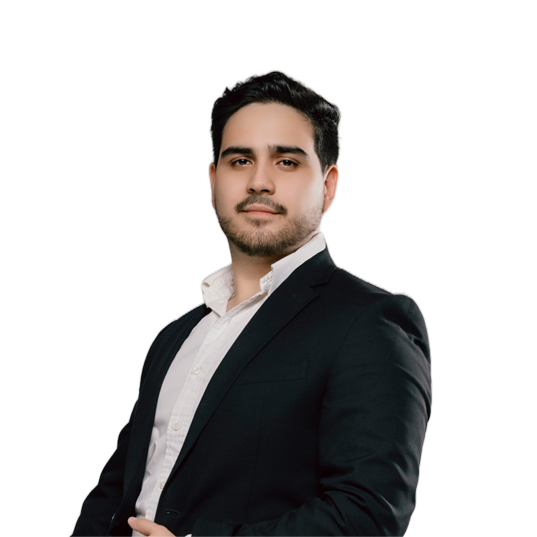
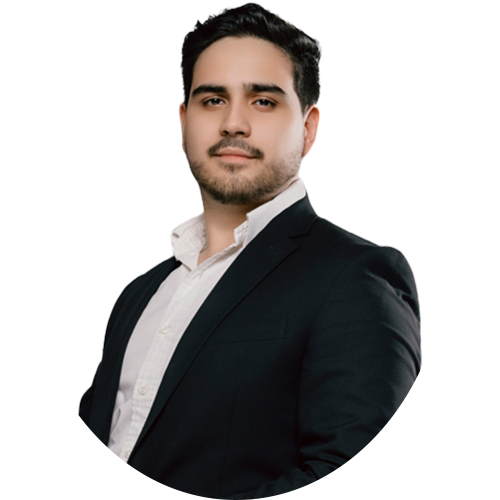
[Page] Finished developing the HomePage and added another package, changed the photo

Changed region(s): [[0.12, 0.0, 0.87, 1.0]]

diff --git a/ted-portfolio/components/Photo.jsx b/ted-portfolio/components/Photo.jsx
@@ -1,9 +1,64 @@
-import React from 'react'
+"use client";
+
+import { motion } from "framer-motion";
+import Image from "next/image";
 
 const Photo = () => {
-  return (
-    <div>Photo</div>
-  )
+  return <div className="w-full h-full relative">
+    <motion.div
+    initial={{opacity: 0}}
+    animate={{
+        opacity: 1,
+        transition: {delay: 2, duration: 0.4, ease: 'easeIn' },
+        }}
+    >
+        {/* image */}
+        <motion.div
+        initial={{ opacity: 0 }}
+        animate= {{
+            opacity: 1,
+            transition: { delay: 2.4, duration: 0.4, ease: 'easeInOut' },
+            }}
+        className="w-[298px] h-[298px] xl:w-[498px] xl:h-[498px] mix-blend-lighten brightness-75 absolute">
+            <Image
+            src="/assets/j500.png"
+            priority
+            quality={100}
+            fill
+            alt=""
+            className="object-contain" 
+            />
+        </motion.div>
+
+        {/* circle */}
+        <motion.svg
+        className="w-[300px] xl:w-[506px] h-[300px] xl:h-[506px]"
+        fill="transparent"
+        viewBox="0 0 506 506"
+        xmlns="http://www.w3.org/2000/svg"
+        >
+            <motion.circle
+            cx="253"
+            cy="253"
+            r="250"
+            stroke="#00ff99"
+            strokeWidth="4"
+            strokeLinecap="round"
+            strokeLinejoin="round"
+            initial={{ strokeDasharray: "24 10 0 0" }}
+            animate={{
+                strokeDasharray: ["15 120 25 25", "16 25 92 72", "4 250 22 22"],
+                rotate: [120, 360],
+            }}
+            transition={{
+                duration: 20,
+                repeat: Infinity,
+                repeatType: "reverse"
+            }}
+            />
+        </motion.svg>
+    </motion.div>
+  </div>;
 }
 
-export default Photo
+export default Photo 

diff --git a/ted-portfolio/components/Stats.jsx b/ted-portfolio/components/Stats.jsx
@@ -1,0 +1,51 @@
+"use client";
+
+import CountUp from "react-countup";
+
+const stats = [
+    {
+        num:4,
+        text: "Years of experience",
+    },
+    {
+        num:3,
+        text: "Projects compeleted",
+    },
+    {
+        num:19,
+        text: "Technologies used",
+    },
+    {
+        num:500,
+        text: "Code commits",
+    },
+];
+
+export const Stats = () => {
+  return (
+  <section className="pt-4 pb-12 xl:pt-0 xl:pb-0">
+    <div className="container mx-auto">
+        <div className="flex flex-wrap gap-6 max-w-[80vw] mx-auto xl:max-w-none">
+            {stats.map((item, index)=> {
+                return (
+                <div
+                className="flex-1 flex gap-4 items-center justify-center xl:justify-start"
+                    key={index}
+                >
+                    <CountUp
+                    end={item.num}
+                    duration={5}
+                    delay={2}
+                    className="text-4xl xl:text-6xl font-extrabold"
+                    />
+                    <p className={'${item.text.lenght < 15 ? "max-w-[100px]" : "max-w-[150px]"} leading-snug text-white/80'}>{item.text}</p>
+                </div>
+                );
+            })}
+        </div>
+    </div>
+  </section>
+  )
+}
+
+export default Stats;

diff --git a/ted-portfolio/app/page.jsx b/ted-portfolio/app/page.jsx
@@ -4,6 +4,7 @@ import { FiDownload } from "react-icons/fi";
 //Components
 import Social from "@/components/Social";
 import Photo from "@/components/Photo";
+import Stats from "@/components/Stats";
 
 const Home = () => {
   return (
@@ -12,7 +13,7 @@ const Home = () => {
         <div className="flex flex-col xl:flex-row items-center justify-between
         xl:pt-8 xl:pb-24">
           {/* text */}
-          <div className="text-center xl:text-left">
+          <div className="text-center xl:text-left order-2 xl:order-none">
             <span className="text-xl">iOS Developer</span>
             <h1 className="h1">
               Hello I'm <br /> <span className="text-accent">José Teodoro García</span>
@@ -42,11 +43,12 @@ const Home = () => {
             </div>
           </div>
           {/* text */}
-          <div>
+          <div className="order-1 xl:order-non mb-8 xl:mb-0">
             <Photo />
           </div>
         </div>
       </div>
+      <Stats />
     </section>
   )
 }
